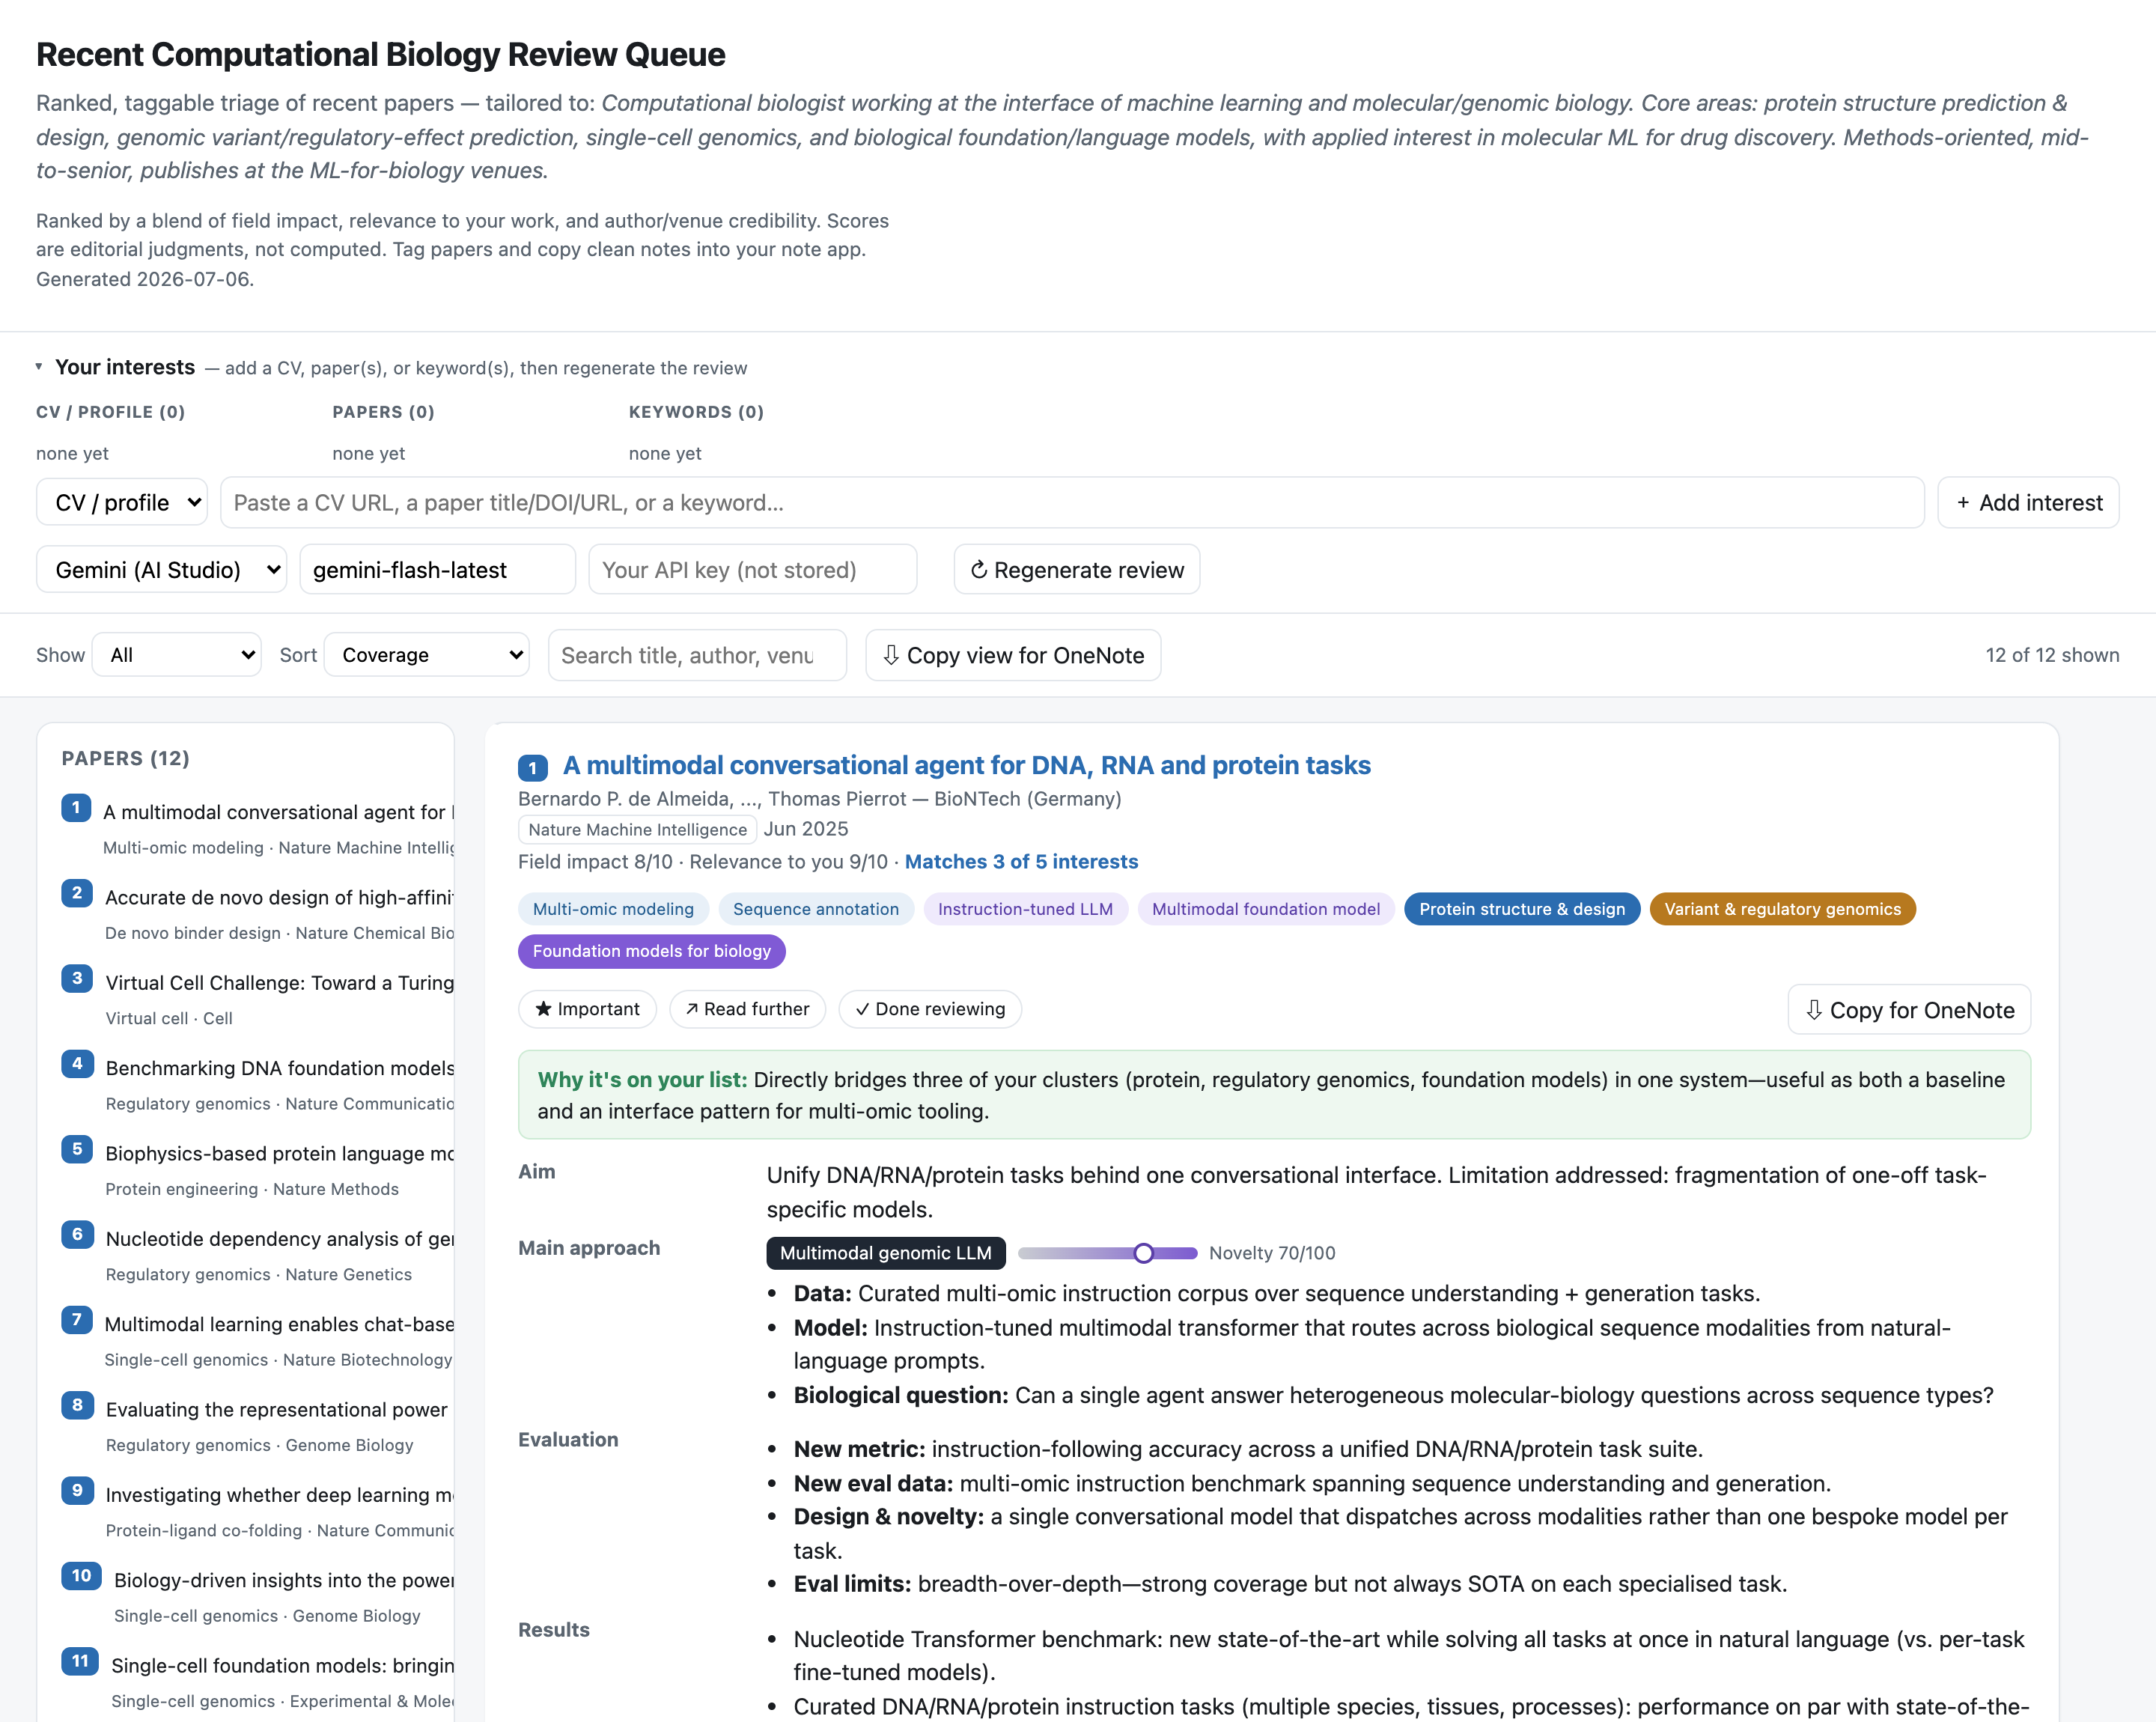
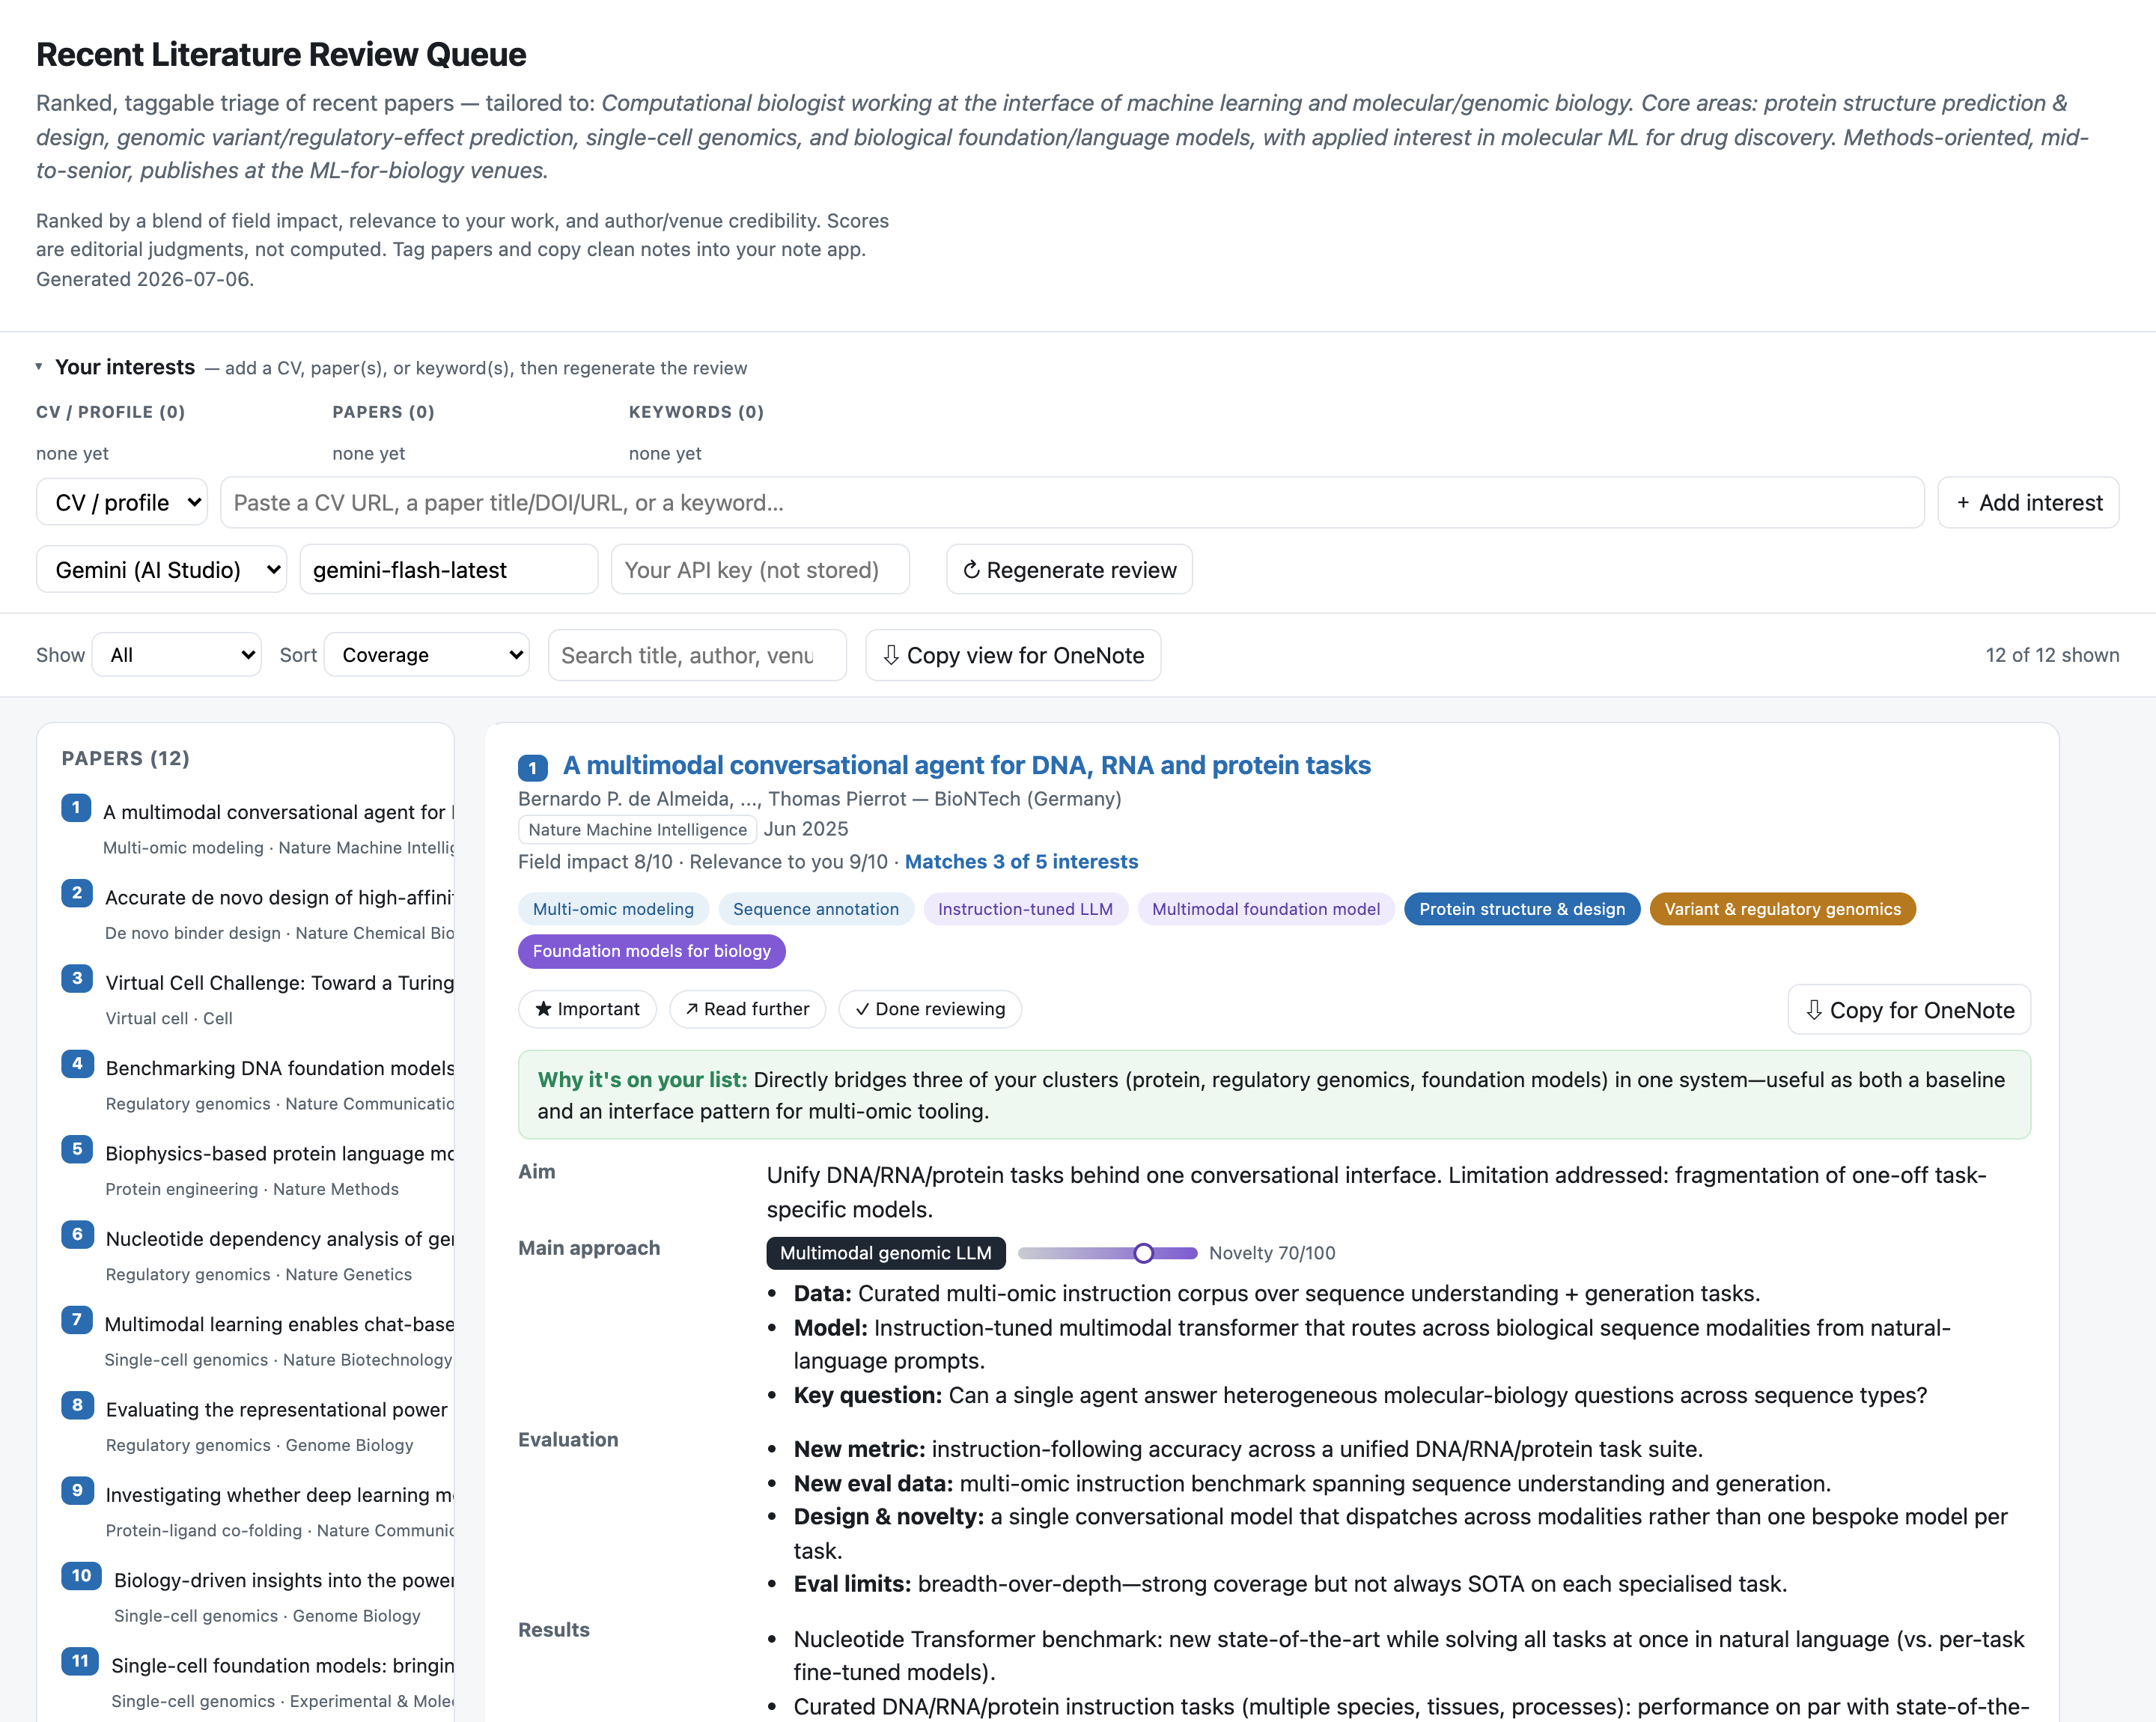
Bake bring-your-own-key model settings into the review template
The deployed /reviewer serves the rendered literature-reviewer.html, whose
interests panel had no API-key input and whose Regenerate posted only
{inputs} -- mismatching the BYO-key backend that requires a per-request key,
so deployed users saw no key slot.

Move the provider/model/API-key panel and the key-aware /review/stream
regenerate out of the dev-only server injection and into render.py's
_TEMPLATE, so every rendered (and deployed) page collects the user's key
(kept in the field only, never persisted). Regenerate literature-reviewer.html
and refresh the README screenshots (settings row, Evaluation->Results order,
and the renamed "Key question" label).

diff --git a/literature-reviewer.html b/literature-reviewer.html
@@ -3,7 +3,7 @@
 <head>
 <meta charset="utf-8">
 <meta name="viewport" content="width=device-width, initial-scale=1">
-<title>Recent Computational Biology Review Queue</title>
+<title>Recent Literature Review Queue</title>
 <style>
 :root{
   --bg:#f6f7f9; --card:#fff; --ink:#1a1d21; --muted:#5b6570; --line:#e3e7ec;
@@ -38,6 +38,9 @@ header.top .crit{color:var(--muted);font-size:13px;max-width:70ch}
 .iadd{display:flex;gap:8px;align-items:center;flex-wrap:wrap;margin-top:6px}
 .iadd select,.iadd input{font:inherit;padding:5px 8px;border:1px solid var(--line);border-radius:8px;background:#fff}
 .iadd input{min-width:260px;flex:1 1 260px}
+.mset{display:inline-flex;gap:8px;align-items:center;flex-wrap:wrap;margin-right:12px}
+.mset select,.mset input{font:inherit;padding:5px 8px;border:1px solid var(--line);border-radius:8px;background:#fff}
+.mset input{min-width:200px}
 .iactions{display:flex;gap:12px;align-items:center;margin-top:10px;flex-wrap:wrap}
 .regen{background:var(--accent);color:#fff;border-color:var(--accent);font-weight:600}
 .regen:hover{background:#255e91}
@@ -118,7 +121,7 @@ dl dd ul{margin:4px 0;padding-left:18px}
 </head>
 <body>
 <header class="top">
-  <h1>Recent Computational Biology Review Queue</h1>
+  <h1>Recent Literature Review Queue</h1>
   <p class="sub">Ranked, taggable triage of recent papers &mdash; tailored to: <em>Computational biologist working at the interface of machine learning and molecular/genomic biology. Core areas: protein structure prediction &amp; design, genomic variant/regulatory-effect prediction, single-cell genomics, and biological foundation/language models, with applied interest in molecular ML for drug discovery. Methods-oriented, mid-to-senior, publishes at the ML-for-biology venues.</em></p>
   <p class="crit">Ranked by a blend of field impact, relevance to your work, and author/venue
     credibility. Scores are editorial judgments, not computed. Tag papers and copy clean notes
@@ -138,6 +141,15 @@ dl dd ul{margin:4px 0;padding-left:18px}
     <button class="btn" id="iaddbtn">&#65291; Add interest</button>
   </div>
   <div class="iactions">
+    <span class="mset">
+      <select id="provider" aria-label="Model provider">
+        <option value="gemini">Gemini (AI Studio)</option>
+        <option value="anthropic">Anthropic (Claude)</option>
+        <option value="openai">OpenAI</option>
+      </select>
+      <input id="model" type="text" placeholder="model id" aria-label="Model id">
+      <input id="apikey" type="password" placeholder="Your API key (not stored)" autocomplete="off" aria-label="Your API key">
+    </span>
     <button class="btn regen" id="regen">&#8635; Regenerate review</button>
     <span class="istatus" id="istatus"></span>
   </div>
@@ -184,7 +196,7 @@ dl dd ul{margin:4px 0;padding-left:18px}
 <script id="inputs" type="application/json">[]</script>
 <script>
 let TAGS = {"1": {"app": ["Multi-omic modeling", "Sequence annotation"], "method": ["Instruction-tuned LLM", "Multimodal foundation model"]}, "2": {"app": ["De novo binder design", "Therapeutics"], "method": ["Diffusion generative model", "Structure-based design"]}, "3": {"app": ["Virtual cell", "Perturbation prediction"], "method": ["Single-cell foundation model", "Benchmark design"]}, "4": {"app": ["Regulatory genomics", "Variant effect"], "method": ["DNA foundation model", "Benchmarking"]}, "5": {"app": ["Protein engineering", "Variant effect"], "method": ["Protein language model", "Biophysics-informed ML"]}, "6": {"app": ["Regulatory genomics", "Functional element discovery"], "method": ["Genomic language model", "In-silico mutagenesis"]}, "7": {"app": ["Single-cell genomics", "Data exploration"], "method": ["Multimodal foundation model", "Cell + language learning"]}, "8": {"app": ["Regulatory genomics", "Variant effect"], "method": ["DNA language model", "Representation probing"]}, "9": {"app": ["Protein-ligand co-folding", "Structure prediction"], "method": ["Co-folding networks", "Model interpretability"]}, "10": {"app": ["Single-cell genomics", "Model evaluation"], "method": ["Single-cell foundation model", "Biology-driven probing"]}, "11": {"app": ["Single-cell genomics", "Cell-type annotation"], "method": ["Single-cell foundation model", "Transfer learning"]}, "12": {"app": ["RNA structure prediction", "RNA biology"], "method": ["RNA language model", "Transfer learning"]}};
-let APPROACH = {"1": {"algo": "Multimodal genomic LLM", "nov": 70, "aim": "Unify DNA/RNA/protein tasks behind one conversational interface. Limitation addressed: fragmentation of one-off task-specific models.", "data": "Curated multi-omic instruction corpus over sequence understanding + generation tasks.", "model": "Instruction-tuned multimodal transformer that routes across biological sequence modalities from natural-language prompts.", "bio": "Can a single agent answer heterogeneous molecular-biology questions across sequence types?"}, "2": {"algo": "Deep generative macrocycle design", "nov": 85, "aim": "Design high-affinity macrocyclic binders from scratch. Limitation addressed: lack of general methods for programmable macrocycle binders.", "data": "Protein-structure priors plus designed-and-tested macrocycle set.", "model": "Deep generative/structure-prediction stack adapted to macrocyclic constraints, filtered by predicted affinity then wet-lab validated.", "bio": "Can we program high-affinity binders in a synthesizable, drug-like chemotype?"}, "3": {"algo": "Virtual-cell benchmark", "nov": 55, "aim": "Define a Turing-test-style benchmark for virtual cells. Limitation addressed: no shared success criterion for single-cell foundation models.", "data": "Curated single-cell perturbation datasets held out as the challenge set.", "model": "A community challenge scoring models on predicting unseen cellular perturbation responses.", "bio": "Can a model predict how a cell responds to an unseen perturbation?"}, "4": {"algo": "DNA-FM benchmark suite", "nov": 45, "aim": "Compare DNA foundation models under one protocol. Limitation addressed: incomparable, self-reported DNA-FM results.", "data": "Multiple genomic/genetic task datasets standardized into a benchmark.", "model": "Uniform fine-tuning/probing harness across pretrained DNA foundation models.", "bio": "Which genomic foundation model actually performs best, and on what?"}, "5": {"algo": "Biophysics-conditioned PLM", "nov": 65, "aim": "Improve fitness/variant-effect prediction for engineering. Limitation addressed: sequence-only PLMs ignore structure/energetics.", "data": "Protein sequences + structural/biophysical features; DMS fitness benchmarks for eval.", "model": "Protein language model augmented with biophysical priors, trained to predict mutational effects.", "bio": "How do mutations change protein fitness, and can biophysics-aware PLMs predict it better?"}, "6": {"algo": "Nucleotide-dependency analysis", "nov": 65, "aim": "Detect functional elements via genomic-LM dependencies. Limitation addressed: black-box genomic LMs give predictions but little mechanism.", "data": "Reference genomes probed by the LM; known functional annotations for validation.", "model": "Systematic paired-nucleotide perturbation of a genomic LM to map dependencies.", "bio": "Which bases interact functionally, and can a language model reveal them?"}, "7": {"algo": "Chat-based single-cell model", "nov": 60, "aim": "Query single-cell data in natural language. Limitation addressed: expert-only, code-heavy single-cell analysis.", "data": "Single-cell expression datasets paired with textual annotations/tasks.", "model": "Multimodal model aligning cell representations with a language interface.", "bio": "Can researchers explore cell atlases by simply asking questions?"}, "8": {"algo": "DNA-LM probing benchmark", "nov": 45, "aim": "Measure whether pretrained DNA LMs encode useful regulatory signal. Limitation addressed: hype without controlled comparison to supervised baselines.", "data": "Regulatory-genomics datasets used to probe frozen/fine-tuned DNA-LM embeddings.", "model": "Probing/fine-tuning of several pretrained DNA language models against supervised CNN baselines.", "bio": "Do genomic foundation models actually capture cis-regulatory grammar?"}, "9": {"algo": "Co-folding physics probing", "nov": 50, "aim": "Test whether co-folding models learn interaction physics. Limitation addressed: pose accuracy metrics hide non-physical reasoning.", "data": "Protein-ligand complexes with controlled physical perturbations.", "model": "Systematic probing of AlphaFold3-class co-folding networks for physical consistency.", "bio": "Do neural co-folding models understand protein-ligand physics, or pattern-match?"}, "10": {"algo": "scFM biology-driven probing", "nov": 40, "aim": "Assess what single-cell foundation models truly learn. Limitation addressed: benchmark-only claims detached from biology.", "data": "Single-cell datasets with biologically meaningful evaluation tasks.", "model": "Controlled probing of scFMs against biology-grounded expectations.", "bio": "Do single-cell foundation models capture real biological structure?"}, "11": {"algo": "scFM survey/taxonomy", "nov": 30, "aim": "Organize single-cell foundation models and their use cases. Limitation addressed: fragmented, hard-to-compare scFM literature.", "data": "Large-scale single-cell atlases underlying the surveyed models.", "model": "Comparative synthesis of transformer-based single-cell foundation models (pretraining + fine-tuning regimes).", "bio": "How should AI foundation models be built and used for single-cell biology?"}, "12": {"algo": "RNA language model (RiNALMo)", "nov": 60, "aim": "Build a general RNA LM that transfers to structure prediction. Limitation addressed: task-specific RNA models with limited transfer.", "data": "Large unlabeled RNA sequence corpus for pretraining; structure datasets for eval.", "model": "Transformer RNA language model pretrained then applied to structure-prediction tasks.", "bio": "Can a pretrained RNA language model predict RNA structure across families?"}};
+let APPROACH = {"1": {"algo": "Multimodal genomic LLM", "nov": 70, "aim": "Unify DNA/RNA/protein tasks behind one conversational interface. Limitation addressed: fragmentation of one-off task-specific models.", "data": "Curated multi-omic instruction corpus over sequence understanding + generation tasks.", "model": "Instruction-tuned multimodal transformer that routes across biological sequence modalities from natural-language prompts.", "question": "Can a single agent answer heterogeneous molecular-biology questions across sequence types?"}, "2": {"algo": "Deep generative macrocycle design", "nov": 85, "aim": "Design high-affinity macrocyclic binders from scratch. Limitation addressed: lack of general methods for programmable macrocycle binders.", "data": "Protein-structure priors plus designed-and-tested macrocycle set.", "model": "Deep generative/structure-prediction stack adapted to macrocyclic constraints, filtered by predicted affinity then wet-lab validated.", "question": "Can we program high-affinity binders in a synthesizable, drug-like chemotype?"}, "3": {"algo": "Virtual-cell benchmark", "nov": 55, "aim": "Define a Turing-test-style benchmark for virtual cells. Limitation addressed: no shared success criterion for single-cell foundation models.", "data": "Curated single-cell perturbation datasets held out as the challenge set.", "model": "A community challenge scoring models on predicting unseen cellular perturbation responses.", "question": "Can a model predict how a cell responds to an unseen perturbation?"}, "4": {"algo": "DNA-FM benchmark suite", "nov": 45, "aim": "Compare DNA foundation models under one protocol. Limitation addressed: incomparable, self-reported DNA-FM results.", "data": "Multiple genomic/genetic task datasets standardized into a benchmark.", "model": "Uniform fine-tuning/probing harness across pretrained DNA foundation models.", "question": "Which genomic foundation model actually performs best, and on what?"}, "5": {"algo": "Biophysics-conditioned PLM", "nov": 65, "aim": "Improve fitness/variant-effect prediction for engineering. Limitation addressed: sequence-only PLMs ignore structure/energetics.", "data": "Protein sequences + structural/biophysical features; DMS fitness benchmarks for eval.", "model": "Protein language model augmented with biophysical priors, trained to predict mutational effects.", "question": "How do mutations change protein fitness, and can biophysics-aware PLMs predict it better?"}, "6": {"algo": "Nucleotide-dependency analysis", "nov": 65, "aim": "Detect functional elements via genomic-LM dependencies. Limitation addressed: black-box genomic LMs give predictions but little mechanism.", "data": "Reference genomes probed by the LM; known functional annotations for validation.", "model": "Systematic paired-nucleotide perturbation of a genomic LM to map dependencies.", "question": "Which bases interact functionally, and can a language model reveal them?"}, "7": {"algo": "Chat-based single-cell model", "nov": 60, "aim": "Query single-cell data in natural language. Limitation addressed: expert-only, code-heavy single-cell analysis.", "data": "Single-cell expression datasets paired with textual annotations/tasks.", "model": "Multimodal model aligning cell representations with a language interface.", "question": "Can researchers explore cell atlases by simply asking questions?"}, "8": {"algo": "DNA-LM probing benchmark", "nov": 45, "aim": "Measure whether pretrained DNA LMs encode useful regulatory signal. Limitation addressed: hype without controlled comparison to supervised baselines.", "data": "Regulatory-genomics datasets used to probe frozen/fine-tuned DNA-LM embeddings.", "model": "Probing/fine-tuning of several pretrained DNA language models against supervised CNN baselines.", "question": "Do genomic foundation models actually capture cis-regulatory grammar?"}, "9": {"algo": "Co-folding physics probing", "nov": 50, "aim": "Test whether co-folding models learn interaction physics. Limitation addressed: pose accuracy metrics hide non-physical reasoning.", "data": "Protein-ligand complexes with controlled physical perturbations.", "model": "Systematic probing of AlphaFold3-class co-folding networks for physical consistency.", "question": "Do neural co-folding models understand protein-ligand physics, or pattern-match?"}, "10": {"algo": "scFM biology-driven probing", "nov": 40, "aim": "Assess what single-cell foundation models truly learn. Limitation addressed: benchmark-only claims detached from biology.", "data": "Single-cell datasets with biologically meaningful evaluation tasks.", "model": "Controlled probing of scFMs against biology-grounded expectations.", "question": "Do single-cell foundation models capture real biological structure?"}, "11": {"algo": "scFM survey/taxonomy", "nov": 30, "aim": "Organize single-cell foundation models and their use cases. Limitation addressed: fragmented, hard-to-compare scFM literature.", "data": "Large-scale single-cell atlases underlying the surveyed models.", "model": "Comparative synthesis of transformer-based single-cell foundation models (pretraining + fine-tuning regimes).", "question": "How should AI foundation models be built and used for single-cell biology?"}, "12": {"algo": "RNA language model (RiNALMo)", "nov": 60, "aim": "Build a general RNA LM that transfers to structure prediction. Limitation addressed: task-specific RNA models with limited transfer.", "data": "Large unlabeled RNA sequence corpus for pretraining; structure datasets for eval.", "model": "Transformer RNA language model pretrained then applied to structure-prediction tasks.", "question": "Can a pretrained RNA language model predict RNA structure across families?"}};
 let DATA = JSON.parse(document.getElementById('data').textContent);
 let CATEGORIES = JSON.parse(document.getElementById('cats').textContent) || [];
 // hydrate(): fold TAGS into each paper and normalise cats; re-run after regenerate.
@@ -195,13 +207,13 @@ function hydrate(){
 hydrate();
 
 const EVAL_LABELS = ['New metric:','New eval data:','Design & novelty:','Eval limits:'];
-const STORE = 'compbio-review-status-v1';
+const STORE = 'litreview-status-v1';
 let status = {};
 try { status = JSON.parse(localStorage.getItem(STORE)) || {}; } catch(e){ status = {}; }
 function saveStatus(){ localStorage.setItem(STORE, JSON.stringify(status)); }
 
 // ----- Interests (SPEC §2.0/§3d): INPUTS persisted; edited then regenerated -----
-const ISTORE = 'compbio-review-inputs-v1';
+const ISTORE = 'litreview-inputs-v1';
 let iseq = 0;
 function ensureIds(){ INPUTS.forEach(i => { if(i.id==null) i.id = 'i'+(++iseq); }); }
 let INPUTS;
@@ -254,7 +266,7 @@ function approachDD(p){
     + `<ul>`
     + (a.data ? `<li><b>Data:</b> ${esc(a.data)}</li>`:'')
     + (a.model ? `<li><b>Model:</b> ${esc(a.model)}</li>`:'')
-    + (a.bio ? `<li><b>Biological question:</b> ${esc(a.bio)}</li>`:'')
+    + (a.question ? `<li><b>Key question:</b> ${esc(a.question)}</li>`:'')
     + `</ul>`;
 }
 function evalDD(p){
@@ -366,7 +378,7 @@ function oneNoteHTML(p){
   const bul = [];
   if(a.data) bul.push(`<li><b>Data:</b> ${esc(a.data)}</li>`);
   if(a.model) bul.push(`<li><b>Model:</b> ${esc(a.model)}</li>`);
-  if(a.bio) bul.push(`<li><b>Biological question:</b> ${esc(a.bio)}</li>`);
+  if(a.question) bul.push(`<li><b>Key question:</b> ${esc(a.question)}</li>`);
   const resItems = (p.results||[]).filter(x=>x!=null && String(x).trim())
     .map(x=>`<li>${esc(x)}</li>`).join('');
   return `<div style="font-family:Calibri,sans-serif">
@@ -442,7 +454,7 @@ document.getElementById('tagfilter').addEventListener('click', e=>{
 });
 document.getElementById('copyview').addEventListener('click', ()=>{
   const rows = currentView();
-  const html = `<div style="font-family:Calibri,sans-serif"><h1>CompBio Review Queue (${rows.length} papers)</h1>`
+  const html = `<div style="font-family:Calibri,sans-serif"><h1>Literature Review Queue (${rows.length} papers)</h1>`
     + rows.map(oneNoteHTML).join('<hr>') + '</div>';
   copyHTML(html, `Copied ${rows.length} papers for OneNote`);
 });
@@ -500,7 +512,7 @@ function offlineFallback(){
   // No live backend (opened via file://, or server down): fall back to a
   // prompt the user can paste into the agent chat (Plan A behaviour).
   const lines = INPUTS.map(i=>`- ${IKIND_LABEL[i.kind]||i.kind}: ${i.value}`);
-  const prompt = 'Build my recent computational-biology review from these interest inputs:\n'
+  const prompt = 'Build my recent literature review from these interest inputs:\n'
     + lines.join('\n');
   copyText(prompt, 'No live backend — prompt copied to clipboard');
   setStatus('No live backend reachable. Copied a prompt to paste into the agent chat.');
@@ -511,13 +523,18 @@ function doneMsg(){
 }
 async function regenerate(){
   if(!INPUTS.length){ setStatus('Add at least one interest first.'); return; }
+  const keyEl = document.getElementById('apikey');
+  const key = (keyEl ? keyEl.value : '').trim();
+  if(!key){ setStatus('Enter your API key first.'); if(keyEl) keyEl.focus(); return; }
+  const provider = (document.getElementById('provider')||{}).value || 'gemini';
+  const model = ((document.getElementById('model')||{}).value || '').trim();
   const btn = document.getElementById('regen');
   btn.disabled = true;
   setStatus('Starting…');
   try{
     const res = await fetch('/review/stream', {
       method:'POST', headers:{'Content-Type':'application/json'},
-      body: JSON.stringify({inputs: INPUTS.map(i=>({kind:i.kind, value:i.value}))})
+      body: JSON.stringify({inputs: INPUTS.map(i=>({kind:i.kind, value:i.value})), provider, model, apiKey:key})
     });
     if(!res.ok || !res.body){
       let detail=''; try{ detail=(await res.json()).detail||''; }catch(_){}
@@ -550,6 +567,24 @@ async function regenerate(){
   }finally{ btn.disabled = false; }
 }
 document.getElementById('regen').addEventListener('click', regenerate);
+
+// BYO model settings: remember provider/model, default the model per provider.
+// (The API key is deliberately NOT persisted — it lives only in the field.)
+(function(){
+  const prov = document.getElementById('provider'), mdl = document.getElementById('model');
+  if(!prov || !mdl) return;
+  const DEF = {gemini:'gemini-flash-latest', anthropic:'claude-sonnet-5', openai:'gpt-4o'};
+  const MS = 'byo-model-cfg-v1';
+  try{ const c = JSON.parse(localStorage.getItem(MS)||'{}');
+    if(c.provider) prov.value = c.provider; if(c.model) mdl.value = c.model; }catch(e){}
+  if(!mdl.value) mdl.value = DEF[prov.value] || '';
+  const save = ()=> localStorage.setItem(MS, JSON.stringify({provider:prov.value, model:mdl.value}));
+  prov.addEventListener('change', ()=>{
+    if(!mdl.value || Object.values(DEF).includes(mdl.value)) mdl.value = DEF[prov.value] || '';
+    save();
+  });
+  mdl.addEventListener('change', save);
+})();
 
 renderInputs();
 render();

diff --git a/app/render.py b/app/render.py
@@ -286,6 +286,9 @@ header.top .crit{color:var(--muted);font-size:13px;max-width:70ch}
 .iadd{display:flex;gap:8px;align-items:center;flex-wrap:wrap;margin-top:6px}
 .iadd select,.iadd input{font:inherit;padding:5px 8px;border:1px solid var(--line);border-radius:8px;background:#fff}
 .iadd input{min-width:260px;flex:1 1 260px}
+.mset{display:inline-flex;gap:8px;align-items:center;flex-wrap:wrap;margin-right:12px}
+.mset select,.mset input{font:inherit;padding:5px 8px;border:1px solid var(--line);border-radius:8px;background:#fff}
+.mset input{min-width:200px}
 .iactions{display:flex;gap:12px;align-items:center;margin-top:10px;flex-wrap:wrap}
 .regen{background:var(--accent);color:#fff;border-color:var(--accent);font-weight:600}
 .regen:hover{background:#255e91}
@@ -386,6 +389,15 @@ dl dd ul{margin:4px 0;padding-left:18px}
     <button class="btn" id="iaddbtn">&#65291; Add interest</button>
   </div>
   <div class="iactions">
+    <span class="mset">
+      <select id="provider" aria-label="Model provider">
+        <option value="gemini">Gemini (AI Studio)</option>
+        <option value="anthropic">Anthropic (Claude)</option>
+        <option value="openai">OpenAI</option>
+      </select>
+      <input id="model" type="text" placeholder="model id" aria-label="Model id">
+      <input id="apikey" type="password" placeholder="Your API key (not stored)" autocomplete="off" aria-label="Your API key">
+    </span>
     <button class="btn regen" id="regen">&#8635; Regenerate review</button>
     <span class="istatus" id="istatus"></span>
   </div>
@@ -759,13 +771,18 @@ function doneMsg(){
 }
 async function regenerate(){
   if(!INPUTS.length){ setStatus('Add at least one interest first.'); return; }
+  const keyEl = document.getElementById('apikey');
+  const key = (keyEl ? keyEl.value : '').trim();
+  if(!key){ setStatus('Enter your API key first.'); if(keyEl) keyEl.focus(); return; }
+  const provider = (document.getElementById('provider')||{}).value || 'gemini';
+  const model = ((document.getElementById('model')||{}).value || '').trim();
   const btn = document.getElementById('regen');
   btn.disabled = true;
   setStatus('Starting…');
   try{
     const res = await fetch('/review/stream', {
       method:'POST', headers:{'Content-Type':'application/json'},
-      body: JSON.stringify({inputs: INPUTS.map(i=>({kind:i.kind, value:i.value}))})
+      body: JSON.stringify({inputs: INPUTS.map(i=>({kind:i.kind, value:i.value})), provider, model, apiKey:key})
     });
     if(!res.ok || !res.body){
       let detail=''; try{ detail=(await res.json()).detail||''; }catch(_){}
@@ -798,6 +815,24 @@ async function regenerate(){
   }finally{ btn.disabled = false; }
 }
 document.getElementById('regen').addEventListener('click', regenerate);
+
+// BYO model settings: remember provider/model, default the model per provider.
+// (The API key is deliberately NOT persisted — it lives only in the field.)
+(function(){
+  const prov = document.getElementById('provider'), mdl = document.getElementById('model');
+  if(!prov || !mdl) return;
+  const DEF = {gemini:'gemini-flash-latest', anthropic:'claude-sonnet-5', openai:'gpt-4o'};
+  const MS = 'byo-model-cfg-v1';
+  try{ const c = JSON.parse(localStorage.getItem(MS)||'{}');
+    if(c.provider) prov.value = c.provider; if(c.model) mdl.value = c.model; }catch(e){}
+  if(!mdl.value) mdl.value = DEF[prov.value] || '';
+  const save = ()=> localStorage.setItem(MS, JSON.stringify({provider:prov.value, model:mdl.value}));
+  prov.addEventListener('change', ()=>{
+    if(!mdl.value || Object.values(DEF).includes(mdl.value)) mdl.value = DEF[prov.value] || '';
+    save();
+  });
+  mdl.addEventListener('change', save);
+})();
 
 renderInputs();
 render();